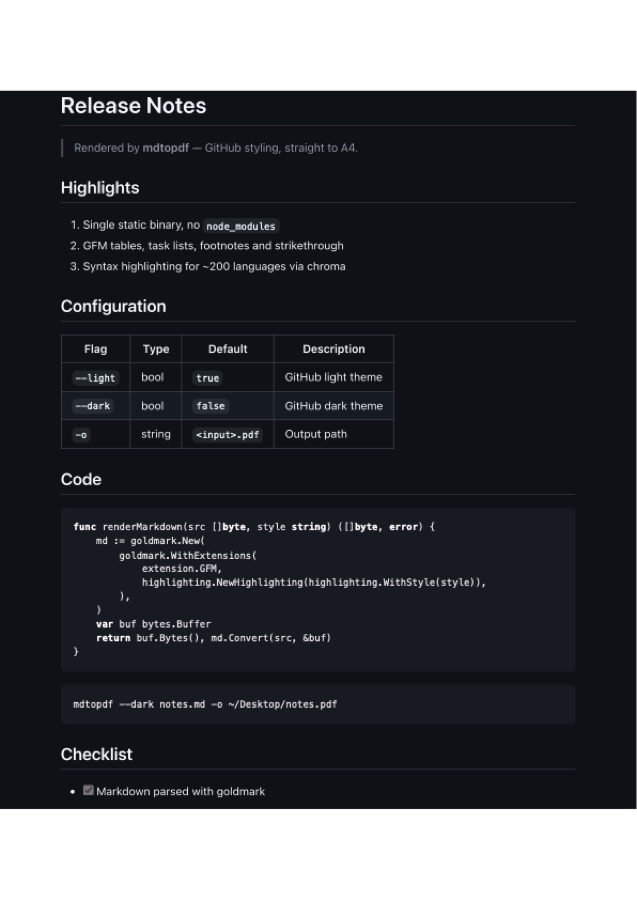
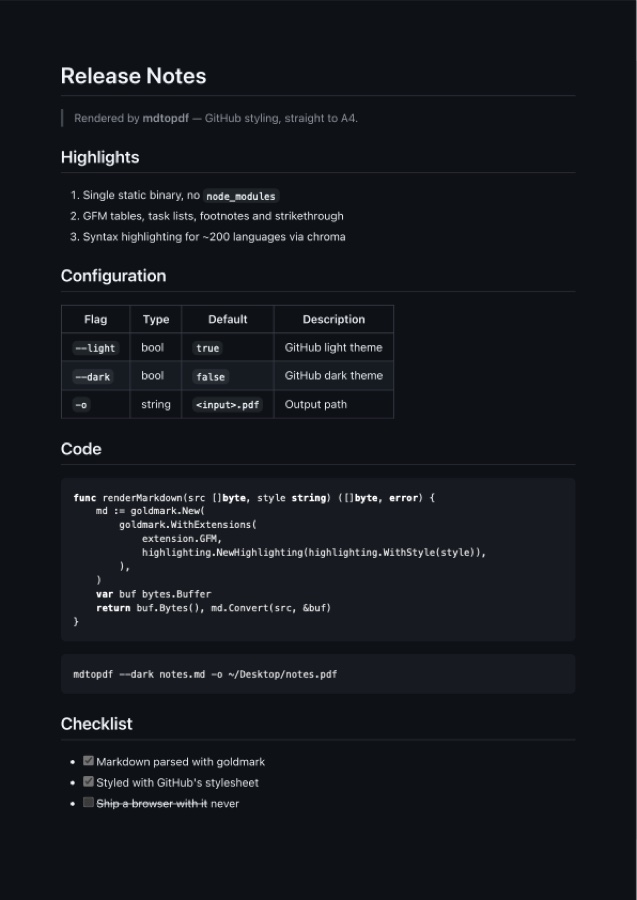
fix: full-bleed background with a gutter that repeats on every page
Dark output had a white band top and bottom: the gutter came from @page
margins, and Chrome never paints that area. Body padding is no better — it
applies once to the whole flow, so interior page breaks sit flush against the
paper edge.

Put @page margin back to 0 so the canvas covers the full sheet, and move the
gutter into thead/tfoot rows, which Chrome repeats on every page. Verified:
dark fill is 1123px (the whole sheet) on every page, and text keeps a 23-27mm
gutter across a document that breaks mid-code-block and mid-table.

Gutter is 20mm, down from 30mm.

Adds an end-to-end test that renders through Chrome and measures the first
baseline on every page — the header-only smoke test missed this three times.
Confirmed it fails at 4.0mm when the gutter is removed.

diff --git a/pdf_margins_test.go b/pdf_margins_test.go
@@ -1,0 +1,137 @@
+package main
+
+import (
+	"bytes"
+	"compress/zlib"
+	"fmt"
+	"io"
+	"regexp"
+	"strconv"
+	"strings"
+	"testing"
+)
+
+// The gutter has regressed three times, each time invisible to a test that only
+// checked the PDF header. This renders a real multi-page document through Chrome
+// and measures where text actually lands on every page.
+func TestEveryPageKeepsItsGutter(t *testing.T) {
+	var md strings.Builder
+	md.WriteString("# Pagination\n\n")
+	for i := 1; i <= 140; i++ {
+		fmt.Fprintf(&md, "Paragraph %d: filler text long enough to push this document "+
+			"across several page boundaries.\n\n", i)
+	}
+
+	body, err := renderMarkdown([]byte(md.String()), "github-dark")
+	if err != nil {
+		t.Fatal(err)
+	}
+	html, err := buildHTML(nil, "#0d1117", "#161b22", gutterHeight, body)
+	if err != nil {
+		t.Fatal(err)
+	}
+	pdf, err := renderPDF(html, t.TempDir())
+	if err != nil {
+		t.Skipf("cannot drive Chrome here: %v", err)
+	}
+
+	pages := firstBaselines(t, pdf)
+	if len(pages) < 3 {
+		t.Fatalf("wanted a multi-page document to test, got %d page(s)", len(pages))
+	}
+	const minGutter = 15.0 // mm; the configured gutter is 20mm plus block margins
+	for i, topMM := range pages {
+		if topMM < minGutter {
+			t.Errorf("page %d starts %.1fmm from the top, want >= %.0fmm — "+
+				"the gutter stopped repeating", i+1, topMM, minGutter)
+		}
+	}
+}
+
+var (
+	reObj   = regexp.MustCompile(`(?s)(\d+)\s+0\s+obj(.*?)endobj`)
+	rePage  = regexp.MustCompile(`/Type\s*/Page[^s]`)
+	reCont  = regexp.MustCompile(`/Contents\s+(\d+)\s+0\s+R`)
+	reFlip  = regexp.MustCompile(`([0-9.]+) 0 0 -[0-9.]+ 0 [0-9.]+ cm`)
+	reMoves = regexp.MustCompile(`([0-9.]+) 0 0 [0-9.]+ 0 (-?[0-9.]+) cm|1 0 0 -1 [0-9.-]+ (-?[0-9.]+) Tm`)
+)
+
+// firstBaselines returns, per page, how far the topmost text baseline sits from
+// the top edge in millimetres. Chrome nests two transforms: an outer flip that
+// scales device units and inverts the y axis, and a per-page translate. Compose
+// them rather than assuming a fixed page stride.
+func firstBaselines(t *testing.T, pdf []byte) []float64 {
+	t.Helper()
+	objs := map[string][]byte{}
+	for _, m := range reObj.FindAllSubmatch(pdf, -1) {
+		objs[string(m[1])] = m[2]
+	}
+
+	var out []float64
+	for _, m := range reObj.FindAllSubmatch(pdf, -1) {
+		body := m[2]
+		if !rePage.Match(body) {
+			continue
+		}
+		c := reCont.FindSubmatch(body)
+		if c == nil {
+			continue
+		}
+		stream := inflate(objs[string(c[1])])
+		if stream == nil {
+			continue
+		}
+
+		flip := reFlip.FindSubmatch(stream)
+		if flip == nil {
+			continue
+		}
+		outer := mustFloat(t, string(flip[1]))
+
+		var ty, inner float64
+		top := -1.0
+		for _, mm := range reMoves.FindAllSubmatch(stream, -1) {
+			if len(mm[1]) > 0 { // a translate: remember this page's scale and offset
+				inner = mustFloat(t, string(mm[1]))
+				ty = mustFloat(t, string(mm[2]))
+				continue
+			}
+			// a text matrix; recover its offset from the page top
+			pt := outer * (inner*mustFloat(t, string(mm[3])) + ty)
+			if top < 0 || pt < top {
+				top = pt
+			}
+		}
+		if top >= 0 {
+			out = append(out, top*25.4/72.0)
+		}
+	}
+	return out
+}
+
+func inflate(obj []byte) []byte {
+	s := bytes.Index(obj, []byte("stream"))
+	e := bytes.Index(obj, []byte("endstream"))
+	if s < 0 || e < 0 {
+		return nil
+	}
+	r, err := zlib.NewReader(bytes.NewReader(bytes.Trim(obj[s+6:e], "\r\n")))
+	if err != nil {
+		return nil
+	}
+	defer r.Close()
+	b, err := io.ReadAll(r)
+	if err != nil {
+		return nil
+	}
+	return b
+}
+
+func mustFloat(t *testing.T, s string) float64 {
+	t.Helper()
+	f, err := strconv.ParseFloat(s, 64)
+	if err != nil {
+		t.Fatalf("bad number %q: %v", s, err)
+	}
+	return f
+}

diff --git a/main_test.go b/main_test.go
@@ -8,42 +8,42 @@ import (
 	"unicode/utf16"
 )
 
-// Regression guard for the page-break margin bug.
+// Regression guard for the page-break margin bug, round three.
 //
-// Vertical space only repeats on every sheet if it lives on @page. Padding on
-// .markdown-body is applied once to the whole flow, so the first page gets a
-// top gutter, the last page gets a bottom one, and every interior page break
-// lands ~4mm from the paper edge. Measured before the fix: page 1 started
-// 27.5mm from the top, pages 2+ started 4.2mm from the top.
-func TestVerticalSpaceLivesOnPageRule(t *testing.T) {
-	html, err := buildHTML([]byte("/* css */"), "#ffffff", "#f6f8fa", []byte("<p>hi</p>"))
+// The invariant: blank space must repeat at the top and bottom of EVERY page,
+// while the background still reaches the paper edge. Body padding cannot do it
+// (applied once to the whole flow, so interior breaks sit flush against the
+// edge) and @page margins cannot either (Chrome never paints that area, which
+// leaves white bands in dark mode). The gutter therefore lives in thead/tfoot
+// rows, which Chrome repeats on every page, with @page margin left at 0 so the
+// canvas covers the full sheet.
+func TestGutterRepeatsAndBackgroundBleeds(t *testing.T) {
+	html, err := buildHTML([]byte("/* css */"), "#0d1117", "#161b22", "20mm", []byte("<p>hi</p>"))
 	if err != nil {
 		t.Fatal(err)
 	}
 
-	atPage := regexp.MustCompile(`@page\s*{([^}]*)}`).FindStringSubmatch(html)
-	if atPage == nil {
-		t.Fatal("no @page rule in the print stylesheet")
+	for _, want := range []string{"<thead>", "<tfoot>", `class="gutter"`} {
+		if !strings.Contains(html, want) {
+			t.Errorf("missing %s: the gutter no longer repeats across pages", want)
+		}
 	}
-	margin := regexp.MustCompile(`margin:\s*([^;]+);`).FindStringSubmatch(atPage[1])
-	if margin == nil {
-		t.Fatal("@page has no margin declaration")
-	}
-	top := strings.Fields(margin[1])[0]
-	if top == "0" || strings.HasPrefix(top, "0 ") {
-		t.Errorf("@page vertical margin is %q; interior page breaks will sit flush "+
-			"against the paper edge", margin[1])
+	if strings.Count(html, `class="gutter"`) < 2 {
+		t.Error("need a gutter in both thead and tfoot")
 	}
 
-	body := regexp.MustCompile(`\.markdown-body\s*{([^}]*)}`).FindStringSubmatch(html)
-	if body == nil {
-		t.Fatal("no .markdown-body rule")
+	atPage := regexp.MustCompile(`@page\s*{([^}]*)}`).FindStringSubmatch(html)
+	if atPage == nil {
+		t.Fatal("no @page rule")
 	}
-	if pad := regexp.MustCompile(`padding:\s*([^;]+);`).FindStringSubmatch(body[1]); pad != nil {
-		if f := strings.Fields(pad[1]); f[0] != "0" {
-			t.Errorf("padding %q puts vertical space on the body box, which does not "+
-				"repeat across pages; move it to @page", pad[1])
-		}
+	if m := regexp.MustCompile(`margin:\s*([^;]+);`).FindStringSubmatch(atPage[1]); m == nil || strings.Fields(m[1])[0] != "0" {
+		t.Errorf("@page margin must stay 0 or Chrome leaves an unpainted band at the "+
+			"sheet edge; got %v", atPage[1])
+	}
+
+	gut := regexp.MustCompile(`\.gutter\s*{[^}]*height:\s*([^;]+);`).FindStringSubmatch(html)
+	if gut == nil || strings.HasPrefix(gut[1], "0") {
+		t.Errorf("gutter height missing or zero: %v", gut)
 	}
 }
 

diff --git a/main.go b/main.go
@@ -29,6 +29,9 @@ import (
 //go:embed github-light.css github-dark.css
 var themes embed.FS
 
+// gutterHeight is the blank space repeated at the top and bottom of every page.
+const gutterHeight = "20mm"
+
 // version is set at build time via -ldflags "-X main.version=...".
 var version = "dev"
 
@@ -36,22 +39,33 @@ var version = "dev"
 var tmpl = template.Must(template.New("page").Parse(`<!doctype html>
 <html><head><meta charset="utf-8"><style>
 {{.CSS}}
-/* Vertical space must live on @page: it repeats on every sheet, whereas
-   padding on the body box is applied once to the whole flow and leaves
-   interior page breaks flush against the paper edge. */
-@page { margin: 30mm 0; size: A4; }
-html, body { background-color: {{.Bg}}; }
+/* Full-bleed background: with a zero page margin the canvas covers the whole
+   sheet, so the dark theme reaches the paper edge instead of floating in a
+   white frame. The vertical gutter therefore cannot come from @page — it comes
+   from the thead/tfoot rows below, which Chrome repeats on every page. Body
+   padding would not work: it applies once to the whole flow, leaving interior
+   page breaks flush against the edge. */
+@page { margin: 0; size: A4; }
+html, body { background-color: {{.Bg}}; margin: 0; }
+table.sheet { width: 100%; border-collapse: collapse; }
+table.sheet > * > tr > td { padding: 0; border: 0; }
+.gutter { height: {{.Gutter}}; }
 .markdown-body {
   font-size: 14px;
   line-height: 1.6;
   padding: 0 20mm;
   margin: 0;
-  min-height: 100vh;
   background-color: {{.Bg}};
 }
 .markdown-body pre { background-color: {{.PreBg}} !important; }
 .markdown-body pre, .markdown-body code { tab-size: 4; -moz-tab-size: 4; }
-</style></head><body class="markdown-body">{{.Body}}</body></html>`))
+</style></head><body>
+<table class="sheet">
+<thead><tr><td><div class="gutter"></div></td></tr></thead>
+<tfoot><tr><td><div class="gutter"></div></td></tr></tfoot>
+<tbody><tr><td><div class="markdown-body">{{.Body}}</div></td></tr></tbody>
+</table>
+</body></html>`))
 
 func main() {
 	dark := flag.Bool("dark", false, "GitHub dark theme")
@@ -102,7 +116,7 @@ func main() {
 		fail(err)
 	}
 
-	html, err := buildHTML(css, bg, preBg, body)
+	html, err := buildHTML(css, bg, preBg, gutterHeight, body)
 	if err != nil {
 		fail(err)
 	}
@@ -231,13 +245,14 @@ func decodeUTF16(b []byte, order binary.ByteOrder) []byte {
 }
 
 // buildHTML wraps rendered markdown in the print stylesheet.
-func buildHTML(css []byte, bg, preBg string, body []byte) (string, error) {
+func buildHTML(css []byte, bg, preBg, gutter string, body []byte) (string, error) {
 	var buf bytes.Buffer
 	err := tmpl.Execute(&buf, map[string]any{
-		"CSS":   template.CSS(css),
-		"Bg":    bg,
-		"PreBg": preBg,
-		"Body":  template.HTML(body),
+		"CSS":    template.CSS(css),
+		"Bg":     bg,
+		"PreBg":  preBg,
+		"Gutter": gutter,
+		"Body":   template.HTML(body),
 	})
 	return buf.String(), err
 }

diff --git a/README.md b/README.md
@@ -83,13 +83,19 @@ steal focus.
 
 Flags work before or after the file name, unlike most Go CLIs.
 
-**Layout:** A4 with a 30 mm gutter top and bottom, 20 mm at the sides. The
-vertical space lives on the `@page` rule rather than on the body's padding, so
-it repeats on *every* sheet — body padding is applied once to the whole flow and
-leaves interior page breaks sitting flush against the paper edge. The cost is
-that Chrome never paints the `@page` margin area, so `--dark` output has a white
-band top and bottom. Relative image paths resolve against the Markdown file's
-directory.
+**Layout:** A4 with a 20 mm gutter top and bottom, 20 mm at the sides, and the
+background bleeding all the way to the paper edge — so `--dark` gives you a
+genuinely black page, gutter included.
+
+Getting both at once takes a small trick. Body padding can't provide the
+vertical gutter: it applies once to the whole flow, so interior page breaks end
+up flush against the paper edge. `@page` margins can't either: Chrome never
+paints that area, which leaves white bands in dark mode. So the page margin
+stays at `0` (the canvas then covers the full sheet) and the gutter comes from
+`thead`/`tfoot` rows, which Chrome repeats on every page. Adjust it via
+`gutterHeight` in `main.go`.
+
+Relative image paths resolve against the Markdown file's directory.
 
 **Encoding:** input must be UTF-8. A UTF-8 or UTF-16 BOM is handled, and
 BOM-less UTF-16 is detected and transcoded. Anything still undecodable is
